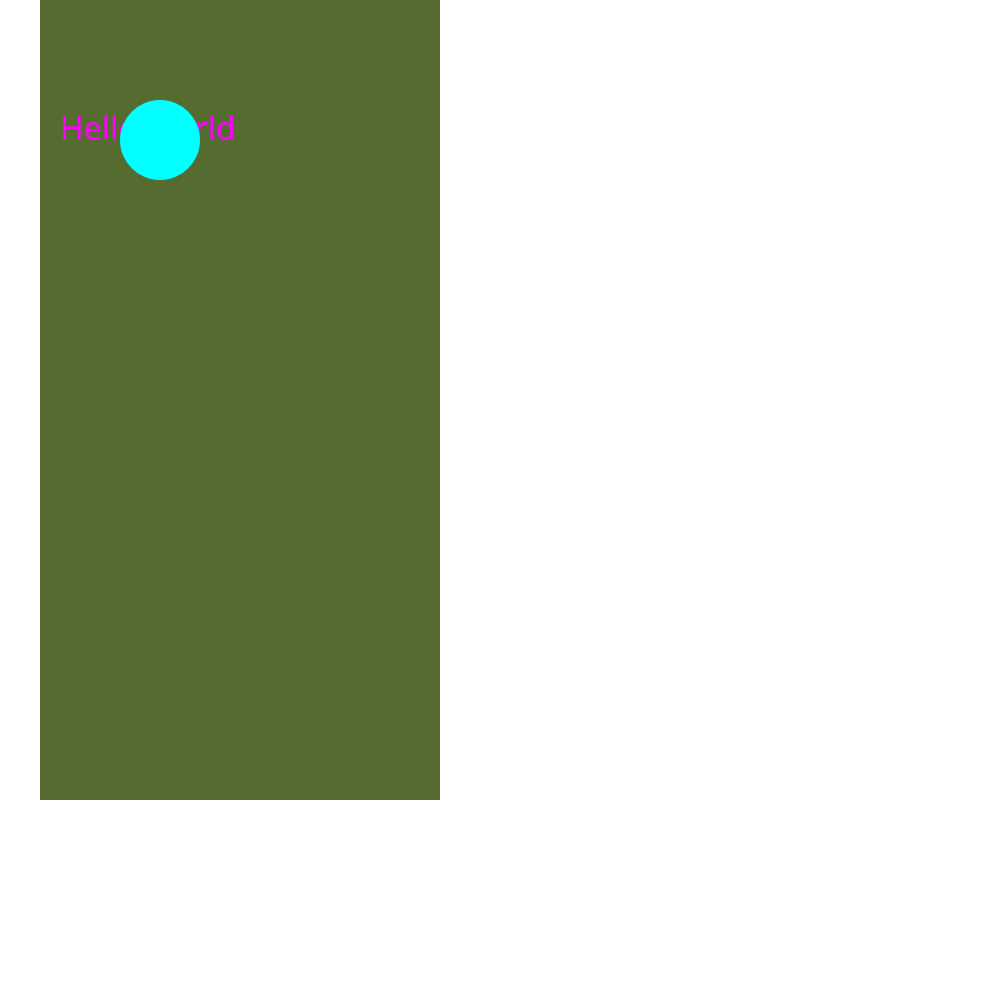
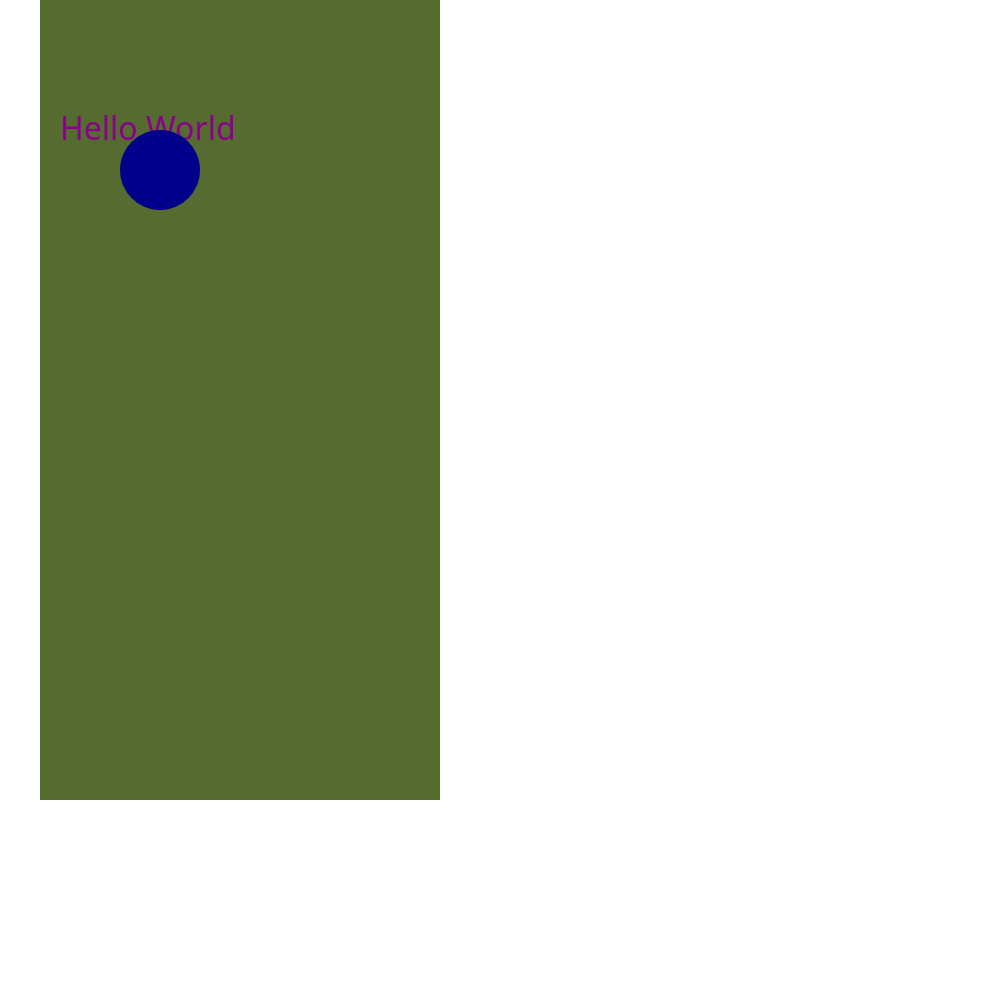
beter readme example color

Changed region(s): [[0.062, 0.093, 0.248, 0.217]]

diff --git a/src/lib.rs b/src/lib.rs
@@ -61,17 +61,17 @@ mod tests {
                 Text::new()
                     .x(30.)
                     .y(70.)
-                    .fill(Color::Fuchsia)
+                    .fill(Color::DarkMagenta)
                     .add_child_string("Hello World".to_string())
                     .font_family("Arial".to_string()),
             )
-            .add_element(Circle::new().fill(Color::Aqua).r(20.).cx(80.).cy(70.));
+            .add_element(Circle::new().fill(Color::DarkBlue).r(20.).cx(80.).cy(85.));
 
         println!("{}", svg);
 
         assert_eq!(
             svg.to_string(),
-            r#"<svg width="500" height="500"><rect fill="darkolivegreen" height="400" width="200" x="20"/><text fill="fuchsia" font-family="Arial" x="30" y="70">Hello World</text><circle cx="80" cy="70" fill="aqua" r="20"/></svg>"#
+            r#"<svg width="500" height="500"><rect fill="darkolivegreen" height="400" width="200" x="20"/><text fill="darkmagenta" font-family="Arial" x="30" y="70">Hello World</text><circle cx="80" cy="85" fill="darkblue" r="20"/></svg>"#
         );
     }
     #[test]

diff --git a/README.md b/README.md
@@ -3,7 +3,7 @@
 easy-svg is a crate for composing SVGs with rust code through a statically-typed system. The motivation behind this project is that [other rust svg libraries](https://crates.io/crates/svg) require you to set attributes by string, leading to invalid states and a worse dev experience. easy-svg is being implemented per the [Mozilla MDN SVG Reference](https://developer.mozilla.org/en-US/docs/Web/SVG/Reference), allowing for no ambiguity in SVG composition. 
 
 ```rust
- Svg::new(500., 500.)
+Svg::new(500., 500.)
             .add_element(
                 Rect::new()
                     .width(200.)
@@ -15,11 +15,17 @@ easy-svg is a crate for composing SVGs with rust code through a statically-typed
                 Text::new()
                     .x(30.)
                     .y(70.)
-                    .fill(Color::Fuchsia)
+                    .fill(Color::DarkMagenta)
                     .add_child_string("Hello World".to_string())
                     .font_family("Arial".to_string()),
             )
-            .add_element(Circle::new().fill(Color::Aqua).r(20.).cx(80.).cy(70.))
+            .add_element(
+            	Circle::new()
+            	.fill(Color::DarkBlue)
+            	.r(20.)
+            	.cx(80.)
+            	.cy(85.)
+            )
 ```
 
 
